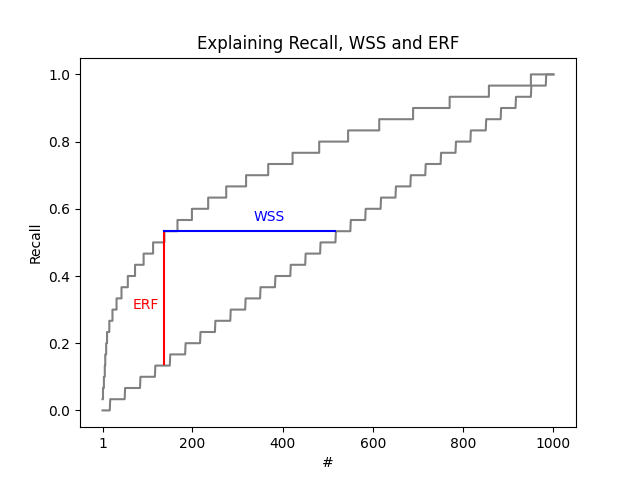
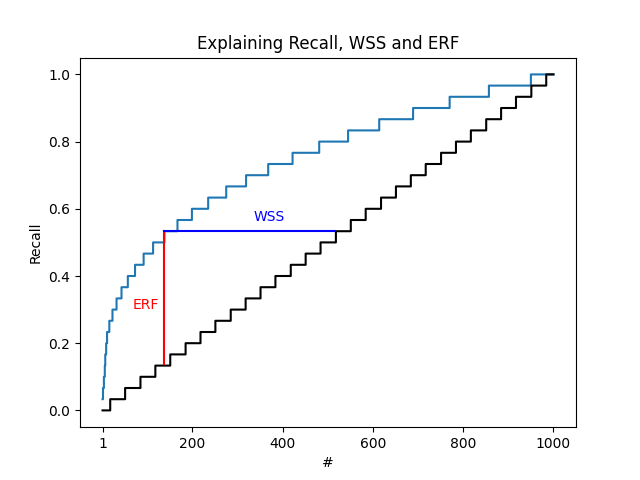
Improve example image

diff --git a/docs/stats_explainer.py b/docs/stats_explainer.py
@@ -1,3 +1,12 @@
+"""Create example plot with different metrics.
+
+Example
+-------
+
+python docs/stats_explainer.py
+"""
+
+
 import numpy as np
 import matplotlib.pyplot as plt
 
@@ -36,11 +45,11 @@ x = list(range(1, n_docs + 1))
 
 # Recall curve.
 recall = np.cumsum(labels) / np.sum(labels)
-ax.step(x, recall, where='post', color='grey')
+ax.step(x, recall, where='post')
 
 # Random
 recall_random = np.round(np.linspace(0, n_pos_docs, n_docs)) / np.sum(labels)
-ax.plot(x, recall_random, color='grey')
+ax.step(x, recall_random, where='post', color="black")
 
 # Add the ERF@.137 line (recall > 0.5 at 137, recall_random 0.5 at 517).
 ax.plot((137, 137), (137 / 1000, recall[137]), color='red')

diff --git a/README.md b/README.md
@@ -35,7 +35,9 @@ from ASReview project files, ideally as the result of a simulation. See
 [LINK]() for more information on simulating with ASReview LAB.
 
 The following plot (with generated, fake data) explains the different metrics
-Recall, WSS, and ERF.
+Recall, WSS, and ERF. The dataset contains 1000 records. The stepped line on
+the diagonal is the naive labeling approach (screening randomly sorted
+records).
 
 ![ASReview metrics explained](docs/stats_explainer.png)
 
